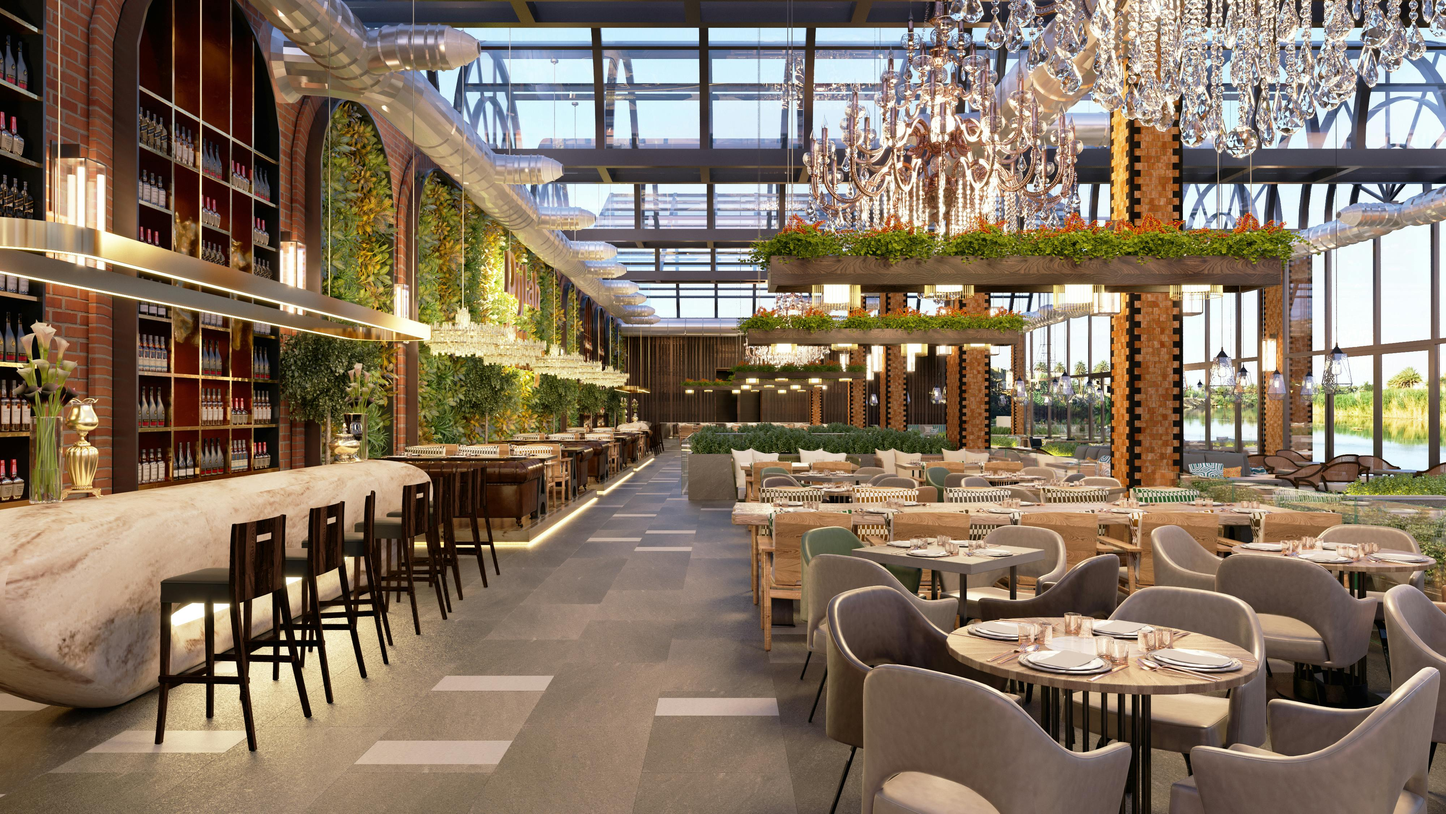
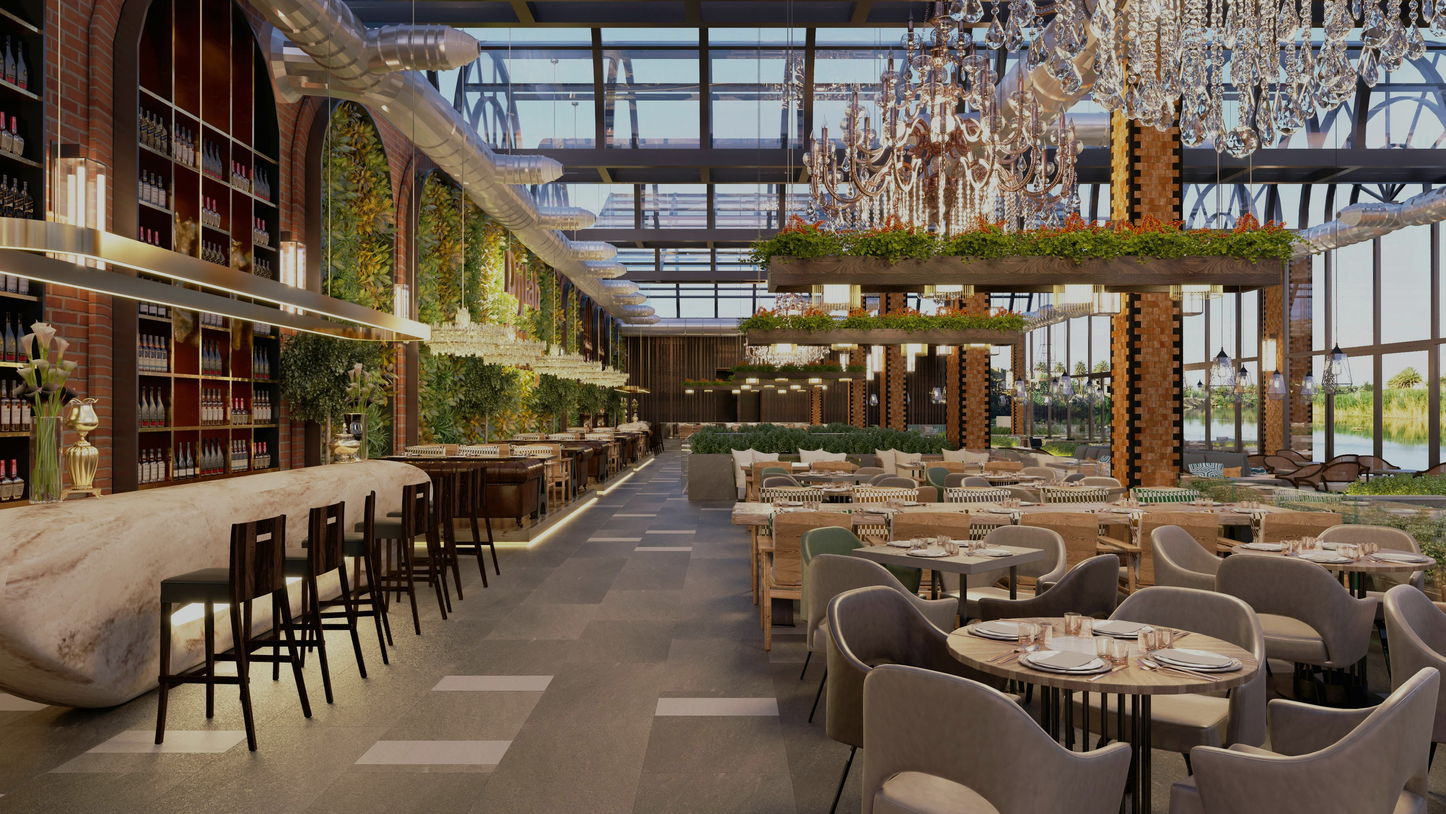
page restaurant terminée

diff --git a/html/restauration.html b/html/restauration.html
@@ -15,7 +15,7 @@
             <span class="bar"></span>
         </button>
         
-      <div class="navbar_logo">Logo</div>
+      <div class="navbar_logo"><img src="../Images/Logo.png"> </div>
 
       <ul class="navbar_links">
         <li class="navbar_link second"><a href="#">Hébergement</a></li>
@@ -38,14 +38,27 @@
     </aside>
 
    <div id="principale">
-    <h1>NOTRE RESTAURANT</h1>
-    <hr>
-    <p>Lorem ipsum dolor sit amet consectetur adipisicing elit. Itaque sunt maiores repudiandae, nobis vitae quibusdam nihil eum a provident commodi. Animi dolores dolorem ipsam nesciunt! Iste natus beatae iure voluptatibus? Lorem ipsum dolor sit amet consectetur adipisicing elit. Nesciunt, sint exercitationem magnam dicta tempora nam delectus soluta iusto sapiente? Illum, dicta. Mollitia neque adipisci labore architecto cumque eos inventore obcaecati.
+    <h1>Notre Restaurant</h1>
+
+    <img class="img_resto" src="../Images/Restaurant/pexels-quark-studio-1159039-3201921.jpg" alt="">
+    <!-- <hr> -->
+    <p class="text_resto_one">Lorem ipsum dolor sit amet consectetur adipisicing elit. Itaque sunt maiores repudiandae, nobis vitae quibusdam nihil eum a provident commodi. Animi dolores dolorem ipsam nesciunt! Iste natus beatae iure voluptatibus? Lorem ipsum dolor sit amet consectetur adipisicing elit. Nesciunt, sint exercitationem magnam dicta tempora nam delectus soluta iusto sapiente? Illum, dicta. Mollitia neque adipisci labore architecto cumque eos inventore obcaecati.</p>
+
         <br><br>
-        Lorem ipsum dolor sit amet, consectetur adipisicing elit. Nobis, amet consequatur aperiam et odio aliquam est! Vitae eos architecto velit, cum iusto at tempora deserunt, asperiores, nobis deleniti facilis adipisci sint illo excepturi laudantium vel inventore! Ab amet dolores nesciunt quisquam consequatur dolore optio, eaque neque voluptatum, iste quasi accusantium. Lorem, ipsum dolor sit amet consectetur adipisicing elit. Quam, sint qui? Saepe reiciendis eius iusto esse perferendis maiores ipsa ducimus harum libero corrupti voluptatem, consequuntur sint quaerat quia eos doloremque? Lorem ipsum dolor sit amet consectetur adipisicing elit. Quae, delectus magni eveniet dolores ipsam et vero quo. Ut, delectus. Eius nobis nemo nostrum ratione accusamus. Architecto expedita totam obcaecati accusamus!
-        <br><br>
-        Horaires : 9h00 - 12h00 / 13h00 - 18h00 
-    </p>
+        
+        <div class="container_resto">
+        <p class="text_resto_two"> Lorem ipsum dolor sit amet, consectetur adipisicing elit. Nobis, amet consequatur aperiam et odio aliquam est! Vitae eos architecto velit, cum iusto at tempora deserunt, asperiores, nobis deleniti facilis adipisci sint illo excepturi laudantium vel inventore! Ab amet dolores nesciunt quisquam consequatur dolore optio, eaque neque voluptatum, iste quasi accusantium. Lorem, ipsum dolor sit amet consectetur adipisicing elit.
+            
+            <br><br>
+
+        Quam, sint qui? Saepe reiciendis eius iusto esse perferendis maiores ipsa ducimus harum libero corrupti voluptatem, consequuntur sint quaerat quia eos doloremque? Lorem ipsum dolor sit amet consectetur adipisicing elit. Quae, delectus magni eveniet dolores ipsam et vero quo. Ut, delectus. Eius nobis nemo nostrum ratione accusamus. Architecto expedita totam obcaecati accusamus!
+            <br><br><br>
+            Horaires : 9h00 - 12h00 / 13h00 - 18h00 
+        </p>
+        <img src="../Images/Restaurant/tori-wise-iM2xseY_fR8-unsplash.jpg" alt="">
+        </div>
+           <!-- <p class="text_resto_three">Horaires : 9h00 - 12h00 / 13h00 - 18h00 </p> -->
+    
     <button id="carte" onclick="ici()">Carte</button>
    </div> 
 </main>

diff --git a/CSS/restaurant.css b/CSS/restaurant.css
@@ -46,11 +46,17 @@ ul {
 body {
     font-size: var(--font-size);
     font-family: 'Poppins', sans-serif;
-    background-color: #50563fa4;
+    /* background-color: #50563fa4; */
+     background-color: #4E5166;
+     background-color: #2E374C;
+
 }
 
 main {
+   
     width: 100%;
+    height: 100vh;
+   
 }
 
 video {
@@ -61,9 +67,11 @@ video {
     width: 50vw;
     height: 80vh;
     transform: rotate(90deg) translate(10%, 35%); 
+    opacity: 0.8;
 }
 
 #principale {
+    /* border: 1px solid black; */
     position: absolute;
     display: flex;
     flex-direction: column;
@@ -75,10 +83,16 @@ video {
 
 #principale h1 {
     color: #f0f0f0;
+    color: #AE9A64;
     font-family: "Spectral SC", serif;
     font-weight: 300;
     font-size: 4.5rem;
-    margin-top: 20px;
+    margin: 30px 0;
+}
+
+.img_resto {
+    width: 80%;
+    opacity: 0.8;
 }
 
 #principale hr {
@@ -89,16 +103,42 @@ video {
   width: 80%;
 }
 
-#principale p {
-    color: #F0F0F0;
+.text_resto_one {
+    /* border: 1px solid green; */
+    /* color: #F0F0F0; */
+    color: #222;
+    color: #AE9A64;
+    padding: 10px 30px;
+    text-align: justify;
+    margin-top: 20px;
+}
+
+.container_resto {
+    width: 100%;
+    display: flex;
+   
+}
+
+.text_resto_two {
+    width: 75%;
+    /* border: 1px solid red; */
+    color: #222;
+    color: #AE9A64;
     padding: 0 20px;
     text-align: justify;
+}
+
+.container_resto img {
+    width: 20%;
+    height: 320px;
+    margin: 5px 15px;
 }
 
 #carte {
     position: relative;
     padding: 10px;
-    right: -45%;
+    right: -20%;
+    bottom: 10%;
 }
 
 /* Navbar */
@@ -114,7 +154,12 @@ video {
 }
 
 .navbar_logo {
-    padding: 0px 5px
+    padding: 0px 5px;
+    height: 100%;
+}
+
+.navbar_logo img {
+    height: 100%;
 }
 
 .navbar_links {

diff --git a/style.css b/style.css
@@ -46,7 +46,7 @@ ul {
 body {
     font-size: var(--font-size);
     font-family: 'Poppins', sans-serif;
-    background-image: url(Images/Extérieur/pexels-kirill-pershin-630641-2262621.jpg);
+    background-image: url(Images/Intérieur/Elegant\ Hotel\ Lobby\ With\ Minimalist\ Design\ And\ Art\ Piece.png);
     background-size: cover;
 }
 
@@ -87,9 +87,13 @@ body {
 }
 
 .navbar_logo {
-    padding: 0px 5px
+    padding: 0px 5px;
+    height: 100%;
 }
 
+.navbar_logo img {
+    height: 100%;
+}
 .navbar_links {
     display: flex;
 }

diff --git a/index.html b/index.html
@@ -17,7 +17,7 @@
             <span class="bar"></span>
         </button>
         
-      <div class="navbar_logo">Logo</div>
+      <div class="navbar_logo"><img src="../Images/Logo.png"> </div>
 
       <ul class="navbar_links">
         <li class="navbar_link second"><a href="#">Hébergement</a></li>
